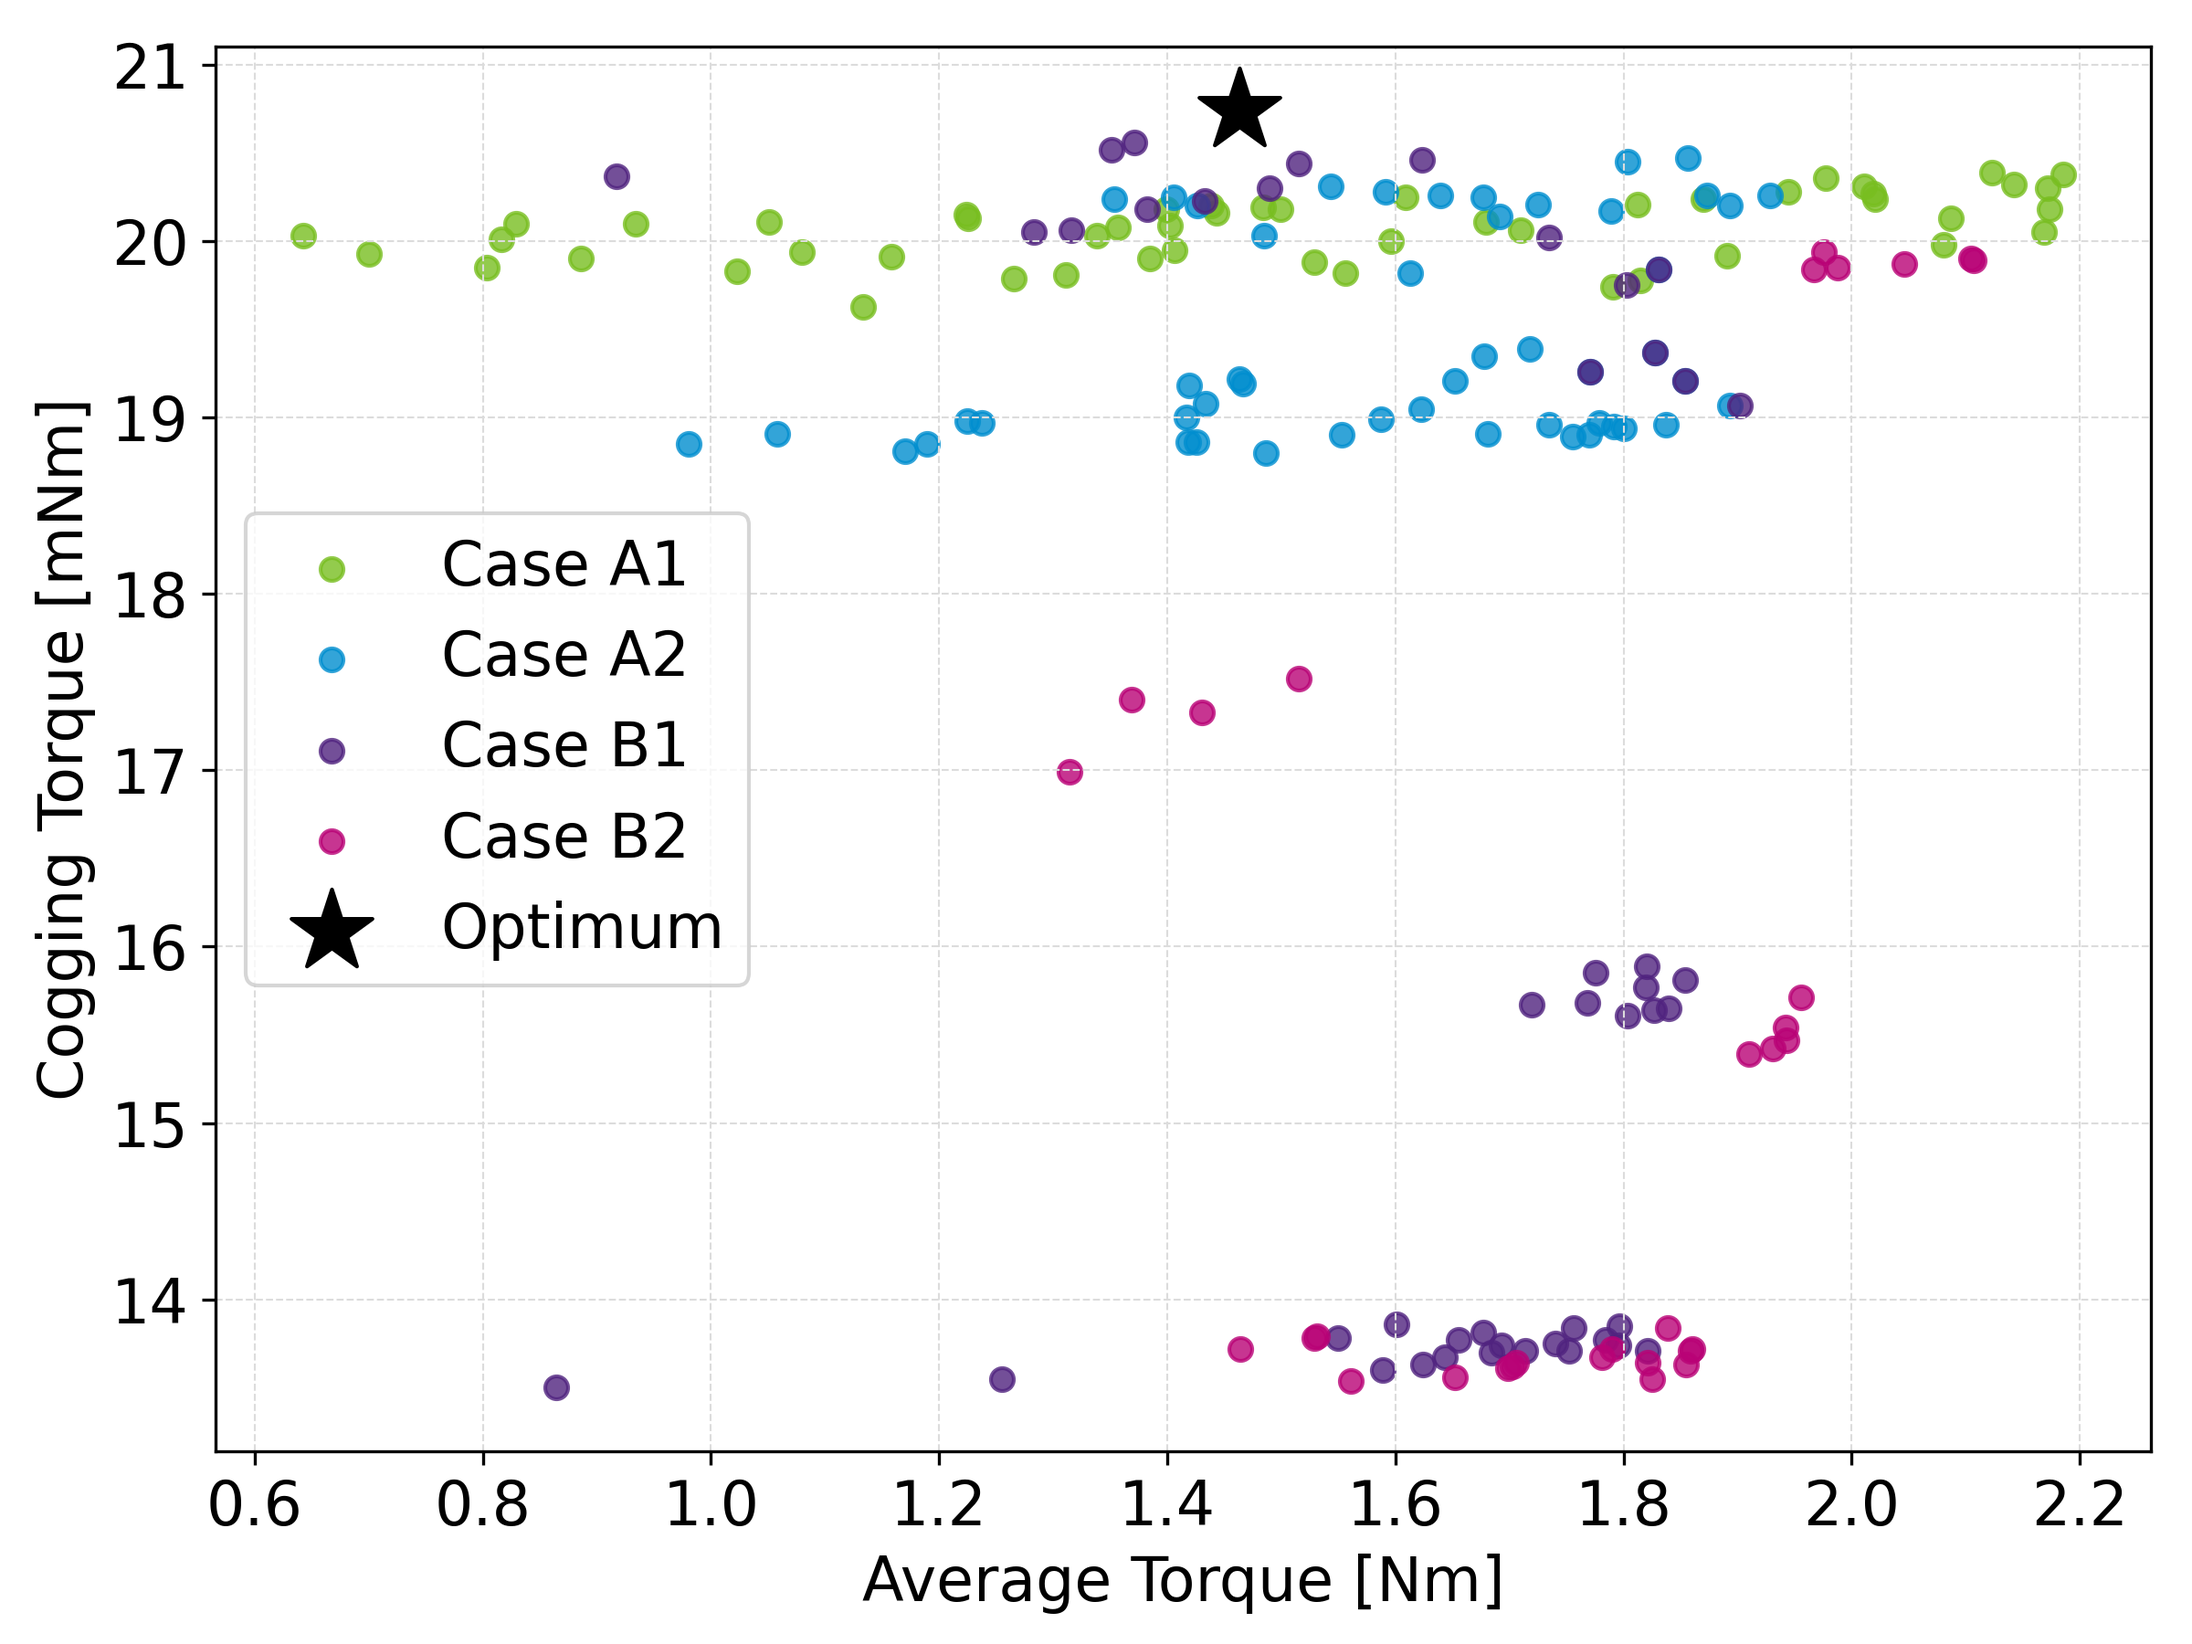
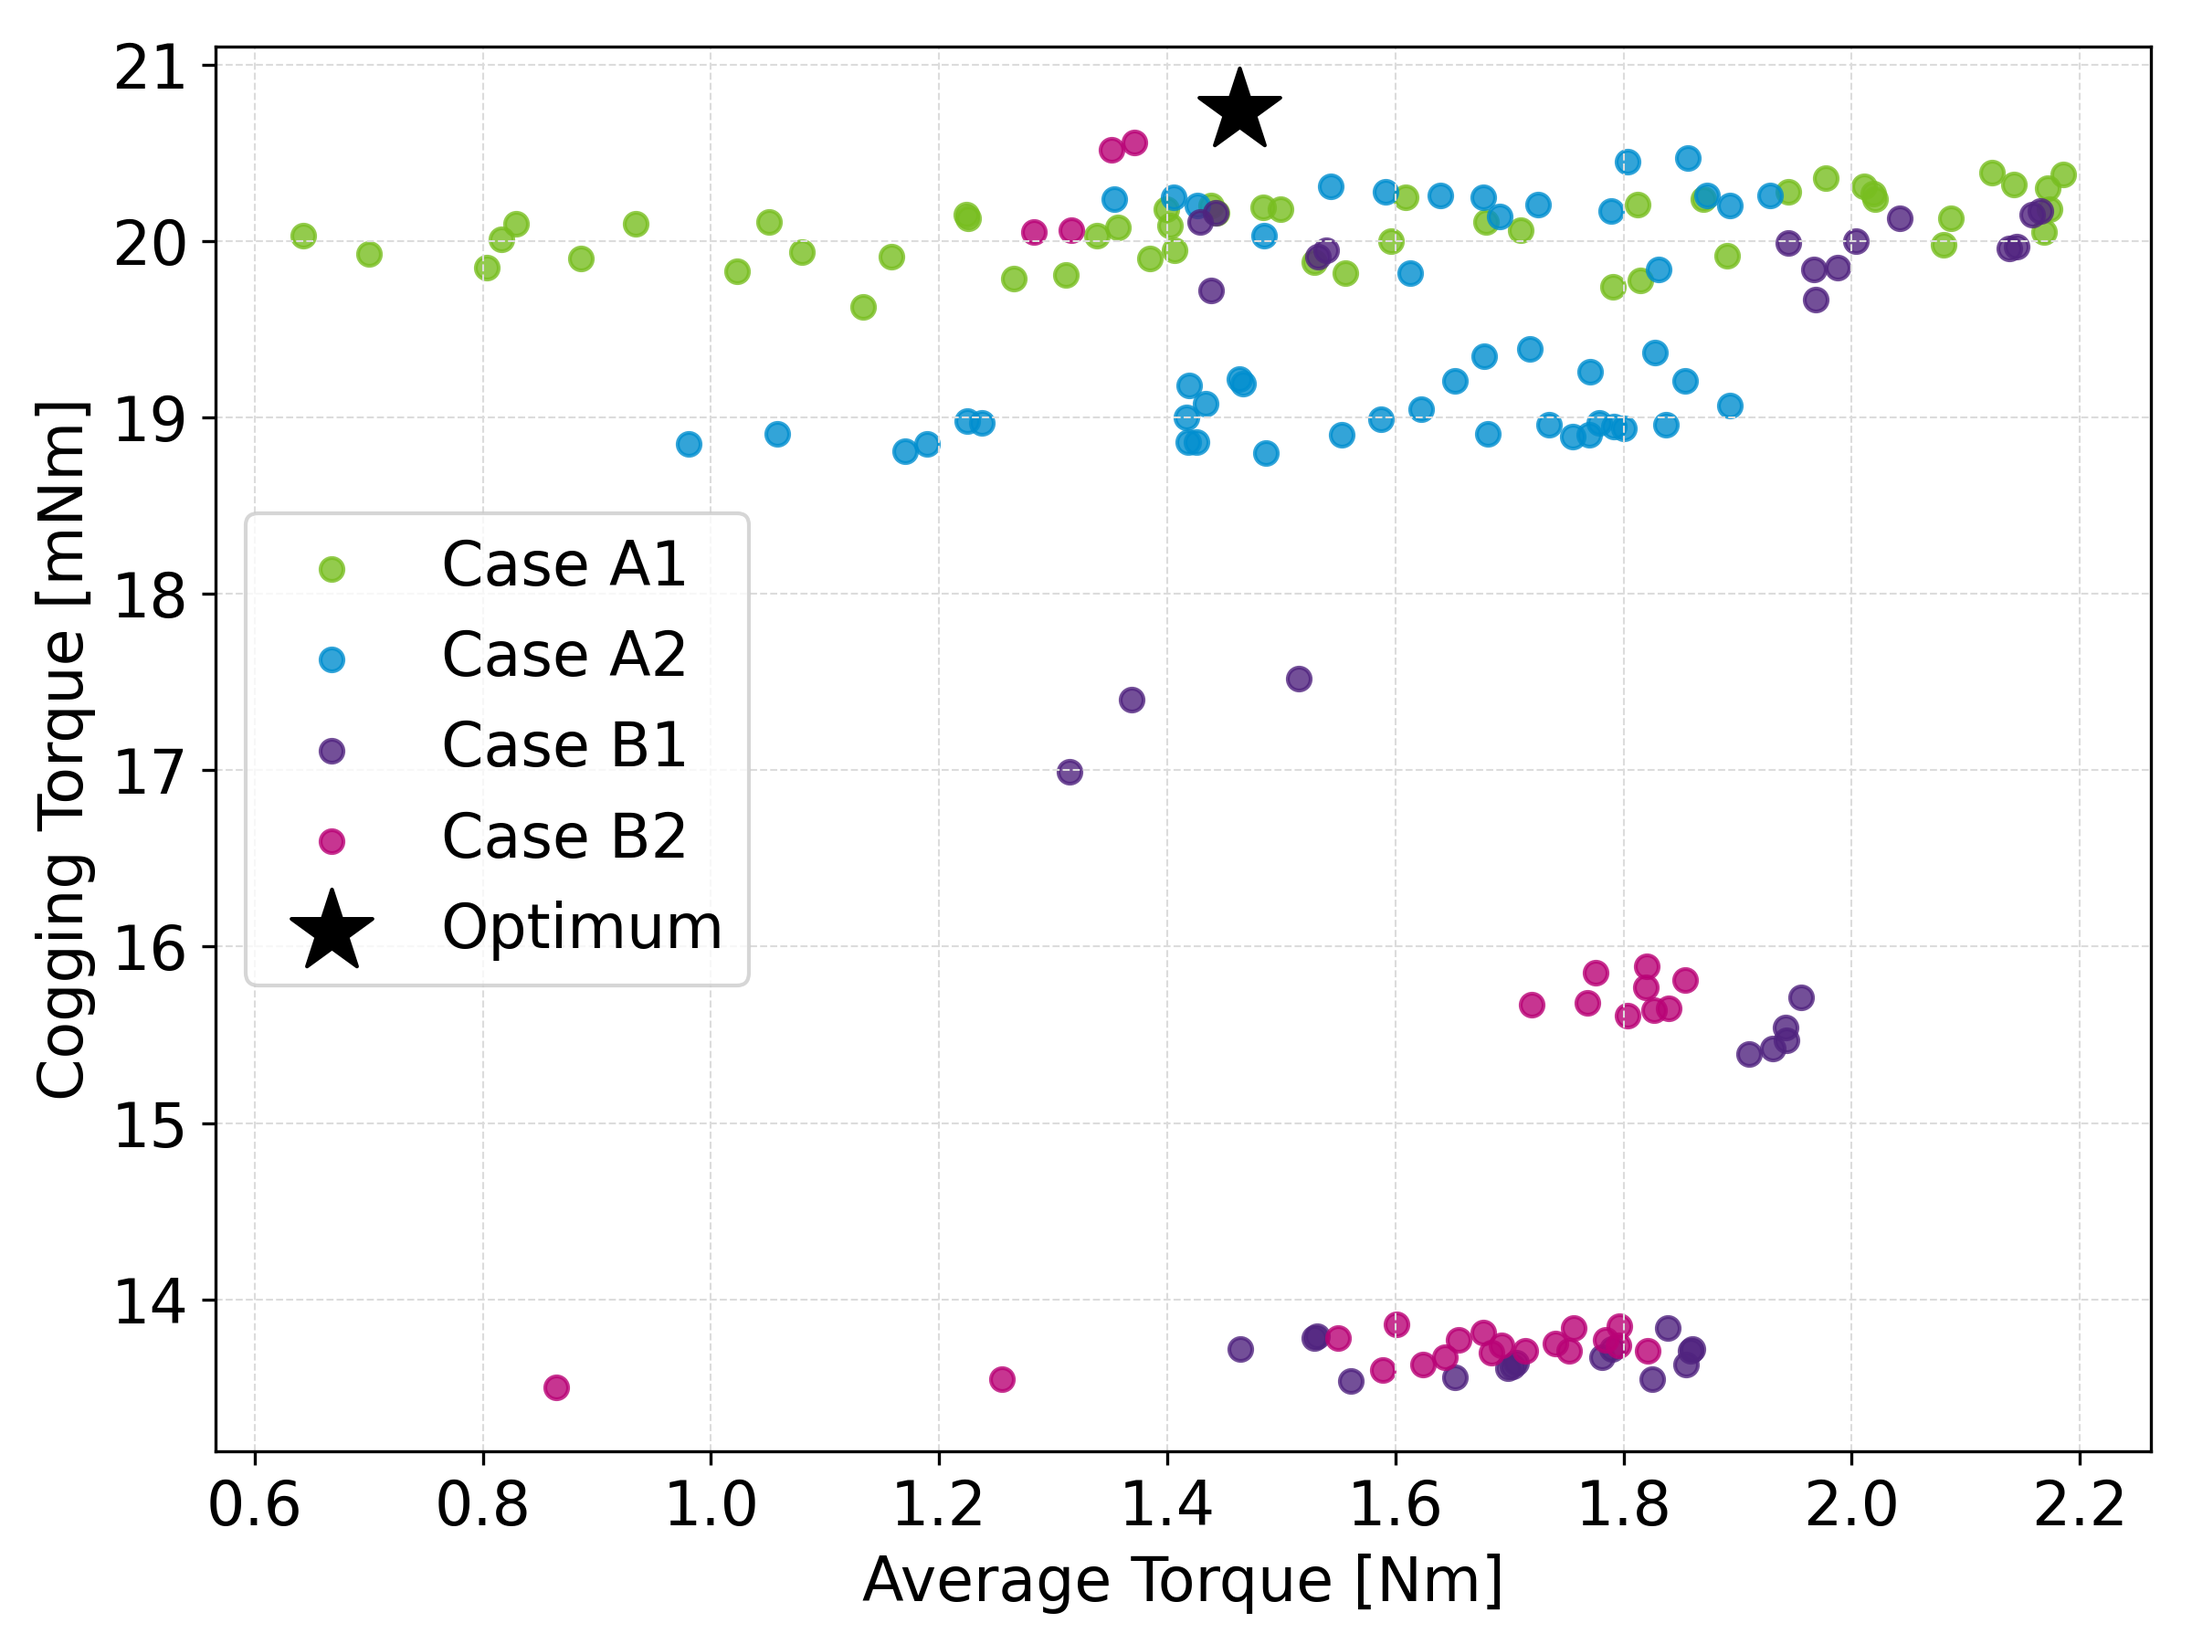
Opt done

diff --git a/examples/magnetics/reluctance_machine/optimisation/Figures/figures3D.py b/examples/magnetics/reluctance_machine/optimisation/Figures/figures3D.py
@@ -9,8 +9,8 @@ colors = ["#B90276", '#50237F', '#005691', "#008ECF", '#00A8B0', '#78BE20', "#00
 # Load data
 df1 = pd.read_csv('nsga2_case3_p50o50g100_obj7_20240807.csv')
 df2 = pd.read_csv('nsga2_case4_p50o50g100_obj7_20240806.csv')
-df3 = pd.read_csv('nsga2_case6_p50o50g100_obj9_20240811.csv')
-df4 = pd.read_csv('nsga2_case7_p50o50g150_obj9_20240818.csv')
+df4 = pd.read_csv('nsga2_case6_p50o50g100_obj9_20240811.csv')
+df3 = pd.read_csv('nsga2_case7_p50o50g150_obj9_20240818.csv')
 
 # Adjust data
 for d in [df1, df2, df3, df4]:
@@ -53,82 +53,82 @@ plt.savefig('obj_3d.png', format='png', dpi=300)
 plt.show()
 
 # -----------------------------------------------------------------------------------------------------
-# import pandas as pd
-# from matplotlib import pyplot as plt
-#
-# # Define color palette
-# colors = ["#B90276", '#50237F', '#005691', "#008ECF", '#00A8B0', '#78BE20', "#006249", '#525F6B', '#000']
-#
-# # Load data
-# df1 = pd.read_csv('nsga2_case3_p50o50g100_obj7_20240807.csv')
-# df2 = pd.read_csv('nsga2_case4_p50o50g100_obj7_20240806.csv')
-# df3 = pd.read_csv('nsga2_case6_p50o50g100_obj9_20240811.csv')
-# df4 = pd.read_csv('nsga2_case7_p50o50g150_obj9_20240818.csv')
-#
-# # Adjust data
-# for d in [df1, df2, df3, df4]:
-#     d['AVG'] *= -0.001  # Convert torque values to positive
-#
-# df3 = df3[df3["X6"] != df4["X7"]].copy()
-# df4 = df4[df4["X6"] != df4["X7"]].copy()
-#
-# # Prepare datasets
-# datasets = [
-#     (df1, colors[5], 'Case A1'),
-#     (df2, colors[3], 'Case A2'),
-#     (df3, colors[1], 'Case B1'),
-#     (df4, colors[0], 'Case B2')
-# ]
-#
-# ft = 16  # Font size for labels and ticks
-#
-# # XY Projection
-# plt.figure(figsize=(8, 6))
-# for data, color, label in datasets:
-#     plt.scatter(data['AVG'], data['RIP'], color=color, label=label, alpha=0.8)
-#
-# plt.scatter(star_point[0], star_point[1], c=colors[-1], marker='*', s=500, label='Optimum')
-#
-# plt.xlabel("Average Torque [Nm]", fontsize=ft)
-# plt.ylabel("Torque Ripple [%]", fontsize=ft)
-# plt.xticks(fontsize=ft)
-# plt.yticks(fontsize=ft)
-# plt.legend(loc='best', fontsize=ft)
-# plt.grid(color='#dcdcdc', linestyle='--', linewidth=0.5)
-# plt.tight_layout()
-# plt.savefig('obj_avg_rip.png', format='png', dpi=300)
-# plt.show()
-#
-# # XZ Projection
-# plt.figure(figsize=(8, 6))
-# for data, color, label in datasets:
-#     plt.scatter(data['AVG'], data['COG'], color=color, label=label, alpha=0.8)
-#
-# plt.scatter(star_point[0], star_point[2], c=colors[-1], marker='*', s=500, label='Optimum')
-#
-# plt.xlabel("Average Torque [Nm]", fontsize=ft)
-# plt.ylabel("Cogging Torque [mNm]", fontsize=ft)
-# plt.xticks(fontsize=ft)
-# plt.yticks(fontsize=ft)
-# plt.legend(loc='best', fontsize=ft)
-# plt.grid(color='#dcdcdc', linestyle='--', linewidth=0.5)
-# plt.tight_layout()
-# plt.savefig('obj_avg_cog.png', format='png', dpi=300)
-# plt.show()
-#
-# # YZ Projection
-# plt.figure(figsize=(8, 6))
-# for data, color, label in datasets:
-#     plt.scatter(data['RIP'], data['COG'], color=color, label=label, alpha=0.8)
-#
-# plt.scatter(star_point[1], star_point[2], c=colors[-1], marker='*', s=500, label='Optimum')
-#
-# plt.xlabel("Torque Ripple [%]", fontsize=ft)
-# plt.ylabel("Cogging Torque [mNm]", fontsize=ft)
-# plt.xticks(fontsize=ft)
-# plt.yticks(fontsize=ft)
-# plt.legend(loc='best', fontsize=ft)
-# plt.grid(color='#dcdcdc', linestyle='--', linewidth=0.5)
-# plt.tight_layout()
-# plt.savefig('obj_rip_cog.png', format='png', dpi=300)
-# plt.show()
+import pandas as pd
+from matplotlib import pyplot as plt
+
+# Define color palette
+colors = ["#B90276", '#50237F', '#005691', "#008ECF", '#00A8B0', '#78BE20', "#006249", '#525F6B', '#000']
+
+# Load data
+df1 = pd.read_csv('nsga2_case3_p50o50g100_obj7_20240807.csv')
+df2 = pd.read_csv('nsga2_case4_p50o50g100_obj7_20240806.csv')
+df4 = pd.read_csv('nsga2_case6_p50o50g100_obj9_20240811.csv')
+df3 = pd.read_csv('nsga2_case7_p50o50g150_obj9_20240818.csv')
+
+# Adjust data
+for d in [df1, df2, df3, df4]:
+    d['AVG'] *= -0.001  # Convert torque values to positive
+
+df3 = df3[df3["X6"] != df4["X7"]].copy()
+df4 = df4[df4["X6"] != df4["X7"]].copy()
+
+# Prepare datasets
+datasets = [
+    (df1, colors[5], 'Case A1'),
+    (df2, colors[3], 'Case A2'),
+    (df3, colors[1], 'Case B1'),
+    (df4, colors[0], 'Case B2')
+]
+
+ft = 16  # Font size for labels and ticks
+
+# XY Projection
+plt.figure(figsize=(8, 6))
+for data, color, label in datasets:
+    plt.scatter(data['AVG'], data['RIP'], color=color, label=label, alpha=0.8)
+
+plt.scatter(star_point[0], star_point[1], c=colors[-1], marker='*', s=500, label='Optimum')
+
+plt.xlabel("Average Torque [Nm]", fontsize=ft)
+plt.ylabel("Torque Ripple [%]", fontsize=ft)
+plt.xticks(fontsize=ft)
+plt.yticks(fontsize=ft)
+plt.legend(loc='best', fontsize=ft)
+plt.grid(color='#dcdcdc', linestyle='--', linewidth=0.5)
+plt.tight_layout()
+plt.savefig('obj_avg_rip.png', format='png', dpi=300)
+plt.show()
+
+# XZ Projection
+plt.figure(figsize=(8, 6))
+for data, color, label in datasets:
+    plt.scatter(data['AVG'], data['COG'], color=color, label=label, alpha=0.8)
+
+plt.scatter(star_point[0], star_point[2], c=colors[-1], marker='*', s=500, label='Optimum')
+
+plt.xlabel("Average Torque [Nm]", fontsize=ft)
+plt.ylabel("Cogging Torque [mNm]", fontsize=ft)
+plt.xticks(fontsize=ft)
+plt.yticks(fontsize=ft)
+plt.legend(loc='best', fontsize=ft)
+plt.grid(color='#dcdcdc', linestyle='--', linewidth=0.5)
+plt.tight_layout()
+plt.savefig('obj_avg_cog.png', format='png', dpi=300)
+plt.show()
+
+# YZ Projection
+plt.figure(figsize=(8, 6))
+for data, color, label in datasets:
+    plt.scatter(data['RIP'], data['COG'], color=color, label=label, alpha=0.8)
+
+plt.scatter(star_point[1], star_point[2], c=colors[-1], marker='*', s=500, label='Optimum')
+
+plt.xlabel("Torque Ripple [%]", fontsize=ft)
+plt.ylabel("Cogging Torque [mNm]", fontsize=ft)
+plt.xticks(fontsize=ft)
+plt.yticks(fontsize=ft)
+plt.legend(loc='best', fontsize=ft)
+plt.grid(color='#dcdcdc', linestyle='--', linewidth=0.5)
+plt.tight_layout()
+plt.savefig('obj_rip_cog.png', format='png', dpi=300)
+plt.show()

diff --git a/examples/magnetics/reluctance_machine/optimisation/MCDM/mcdm.py b/examples/magnetics/reluctance_machine/optimisation/MCDM/mcdm.py
@@ -12,10 +12,10 @@ from pymcdm import visuals
 
 df1 = pd.read_csv('nsga2_case3_p50o50g100_obj7_20240807.csv')
 df2 = pd.read_csv('nsga2_case4_p50o50g100_obj7_20240806.csv')
-df3 = pd.read_csv('nsga2_case6_p50o50g100_obj9_20240811.csv')
-df4 = pd.read_csv('nsga2_case7_p50o50g150_obj9_20240818.csv')
+df4 = pd.read_csv('nsga2_case6_p50o50g100_obj9_20240811.csv')
+df3 = pd.read_csv('nsga2_case7_p50o50g150_obj9_20240818.csv')
 
-for d in [df1, df2, df3, df4]:
+for d in [df1, df2, df4, df3]:
     d['AVG'] *= -1  # Convert torque values to positive
 
 del df1['THD']
@@ -27,7 +27,7 @@ df2.insert(7, 'X8', 'NaN')
 df2.insert(8, 'X9', 'NaN')
 df2['CAS'] = [f'A2_{i}' for i in range(1, len(df2)+1)]
 
-df3 = df3[df3["X6"] != df4["X7"]].copy()
+df3 = df3[df3["X6"] != df3["X7"]].copy()
 df3['CAS'] = [f'B1_{i}' for i in range(1, len(df3)+1)]
 
 df4 = df4[df4["X6"] != df4["X7"]].copy()
